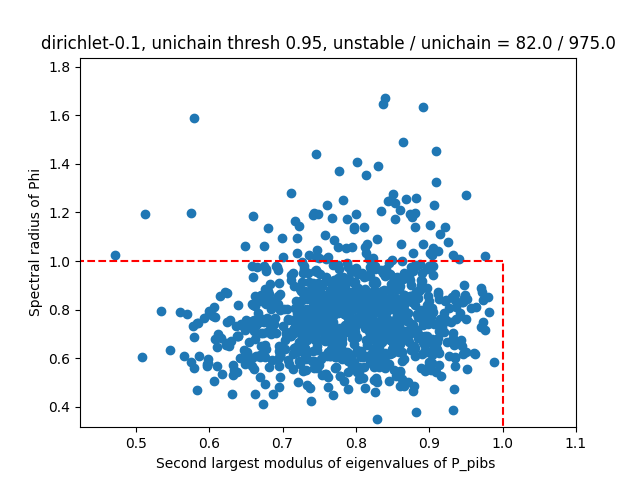
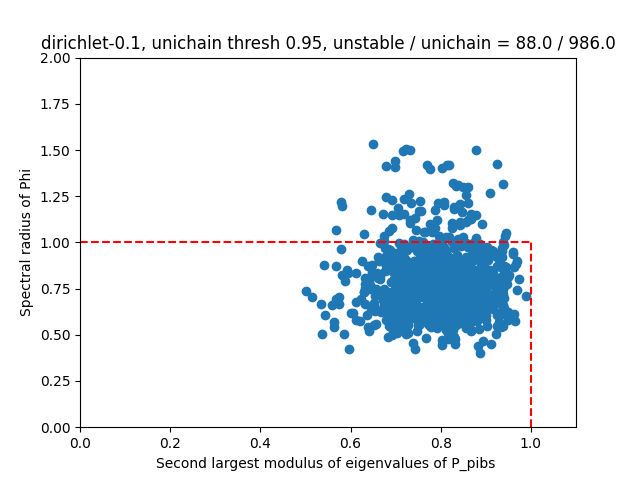
Made scatter plots for unichain / local stability of dirichlet random examples.

diff --git a/experiments2.py b/experiments2.py
@@ -289,8 +289,8 @@ def run_policies(setting_name, policy_name, init_method, T, setting_path=None, n
 
 
 def figure_from_multiple_files(note=None):
-    settings = ["random-size-10-dirichlet-0.05-({})".format(i) for i in range(7)]   # ["RG-16-square-uniform-thresh=0.5-uniform-({})".format(i) for i in range(3)] + ["random-size-10-dirichlet-0.05-({})".format(i) for i in range(7)] + ["random-size-4-uniform-({})".format(i) for i in range(3)] + ["random-size-3-uniform-({})".format(i) for i in range(5)] + ["non-sa-big1", "new2-eight-states", "new-eight-states", "eight-states", "three-states", "non-sa", "eight-states-045"]
-    policies = ["id", "setexp", "lppriority", "whittle"] #["id",  "setexp", "setopt", "setexp-priority", "ftva", "lppriority"]  # ["id", "ftva", "lppriority", "setexp", "setopt", "setexp-id", "setopt-id", "setexp-priority", "setopt-priority", "setopt-tight"]
+    settings = ["random-size-10-dirichlet-0.05-({})".format(i) for i in [4, 6]]   #["random-size-10-dirichlet-0.05-({})".format(i) for i in range(7)]   # ["RG-16-square-uniform-thresh=0.5-uniform-({})".format(i) for i in range(3)] + ["random-size-10-dirichlet-0.05-({})".format(i) for i in range(7)] + ["random-size-4-uniform-({})".format(i) for i in range(3)] + ["random-size-3-uniform-({})".format(i) for i in range(5)] + ["non-sa-big1", "new2-eight-states", "new-eight-states", "eight-states", "three-states", "non-sa", "eight-states-045"]
+    policies = ["id", "setexp", "setopt", "lppriority", "whittle"] #["id",  "setexp", "setopt", "setexp-priority", "ftva", "lppriority"]  # ["id", "ftva", "lppriority", "setexp", "setopt", "setexp-id", "setopt-id", "setexp-priority", "setopt-priority", "setopt-tight"]
     linestyle_str = ["-",":","-.","--"]*10
     reward_array_dict = {}
     Ns = np.array(list(range(100,1100,100))) #np.array(list(range(1500, 5500, 500))) # list(range(1000, 20000, 1000))
@@ -393,12 +393,12 @@ if __name__ == "__main__":
 
 
     ## random 10-state dirichlet examples
-    for i in [4,6]:
-        setting_name = "random-size-10-dirichlet-0.05-({})".format(i)
-        setting_path = "setting_data/" + setting_name
-        setting = rb_settings.ExampleFromFile(setting_path)
-        for policy_name in ["setopt"]: #, "setopt", "ftva", "lppriority", "setopt-priority", "whittle"]: #["id", "setexp", "setopt", "ftva", "lppriority", "setopt-priority", "twoset-v1"]:
-            run_policies(setting_name, policy_name, "random", 20000, setting_path, note="T2e4")
+    # for i in [4,6]:
+    #     setting_name = "random-size-10-dirichlet-0.05-({})".format(i)
+    #     setting_path = "setting_data/" + setting_name
+    #     setting = rb_settings.ExampleFromFile(setting_path)
+    #     for policy_name in ["setopt"]: #, "setopt", "ftva", "lppriority", "setopt-priority", "whittle"]: #["id", "setexp", "setopt", "ftva", "lppriority", "setopt-priority", "twoset-v1"]:
+    #         run_policies(setting_name, policy_name, "random", 20000, setting_path, note="T2e4")
 
     # ## random 16-state RG examples
     # for i in range(3):
@@ -408,5 +408,5 @@ if __name__ == "__main__":
     #     for policy_name in ["id", "setexp"]: #, "setopt", "ftva", "lppriority", "setopt-priority", "whittle"]: #["id", "setexp", "setopt", "ftva", "lppriority", "setopt-priority", "twoset-v1"]:
     #         run_policies(setting_name, policy_name, "random", 10000, setting_path)
 
-    # figure_from_multiple_files(note=None)
+    figure_from_multiple_files(note=None)
 

diff --git a/understand_UGAP.py b/understand_UGAP.py
@@ -1,0 +1,73 @@
+from rb_settings import *
+from discrete_RB import *
+from matplotlib import pyplot as plt
+
+
+
+def compute_P_and_Phi_eigvals(setting):
+    """
+    return 1 if unichain and locally stable; return 0 if locally unstable;
+    """
+    analyzer = SingleArmAnalyzer(setting.sspa_size, setting.trans_tensor, setting.reward_tensor, setting.suggest_act_frac)
+    y = analyzer.solve_lp(verbose=False)[1]
+    ind_neu = np.where(np.all([y[:,0] > analyzer.EPS, y[:,1] > analyzer.EPS],axis=0))[0]
+    if len(ind_neu) > 1:
+        return None
+
+    Ppibs_centered = analyzer.Ppibs - np.outer(np.ones((analyzer.sspa_size,)), analyzer.state_probs)
+    Ppibs_second_eig = np.max(np.abs(Ppibs_centered))
+
+    Phi = analyzer.compute_Phi(verbose=False)
+    Phi_spec_rad = np.max(np.abs(np.linalg.eigvals(Phi)))
+
+    return Ppibs_second_eig, Phi_spec_rad
+
+
+def count_locally_unstable(alpha):
+    sspa_size = 10
+    distr = "dirichlet"
+    laziness = None
+    num_examples = 1000
+    unichain_threshold = 0.95
+    distr_and_parameter = distr
+    if distr == "dirichlet":
+        distr_and_parameter += "-" + str(alpha)
+    if laziness is not None:
+        distr_and_parameter += "-lazy-" + str(laziness)
+    unichain_stability_table = np.zeros((2,2))
+    eig_vals_list = []
+    for i in range(num_examples):
+        setting = RandomExample(sspa_size, distr, laziness=laziness, parameters=[alpha])
+        result = compute_P_and_Phi_eigvals(setting)
+        if result is not None:
+            eig_vals = result
+            eig_vals_list.append(eig_vals)
+            if eig_vals[0] < unichain_threshold:
+                is_unichain = 1
+            else:
+                is_unichain = 0
+            if eig_vals[1] < 1:
+                is_locally_stable = 1
+            else:
+                is_locally_stable = 0
+            unichain_stability_table[is_unichain, is_locally_stable] +=1
+    print(unichain_stability_table)
+    unstable_unichain_count = unichain_stability_table[1,0]
+    unichain_count = np.sum(unichain_stability_table[1, :])
+    eig_vals_list = np.array(eig_vals_list)
+    plt.scatter(eig_vals_list[:,0], eig_vals_list[:,1])
+    plt.plot([0,1], [1,1], linestyle="--", color="r")
+    plt.plot([1,1], [0,1], linestyle="--", color="r")
+    plt.xlabel("Second largest modulus of eigenvalues of P_pibs ")
+    plt.ylabel("Spectral radius of Phi")
+    plt.xlim([0, 1.1])
+    plt.ylim([0, 2])
+    plt.title("{}, unichain thresh {}, unstable / unichain = {} / {}".format(distr_and_parameter, unichain_threshold, unstable_unichain_count, unichain_count))
+    plt.savefig("figs2/eigen-scatter-{}-size-{}.png".format(distr_and_parameter, sspa_size))
+    plt.show()
+
+
+if __name__ == "__main__":
+    np.random.seed(114514)
+    for alpha in [0.05, 0.1, 0.2, 0.5, 1]:
+        count_locally_unstable(alpha)
